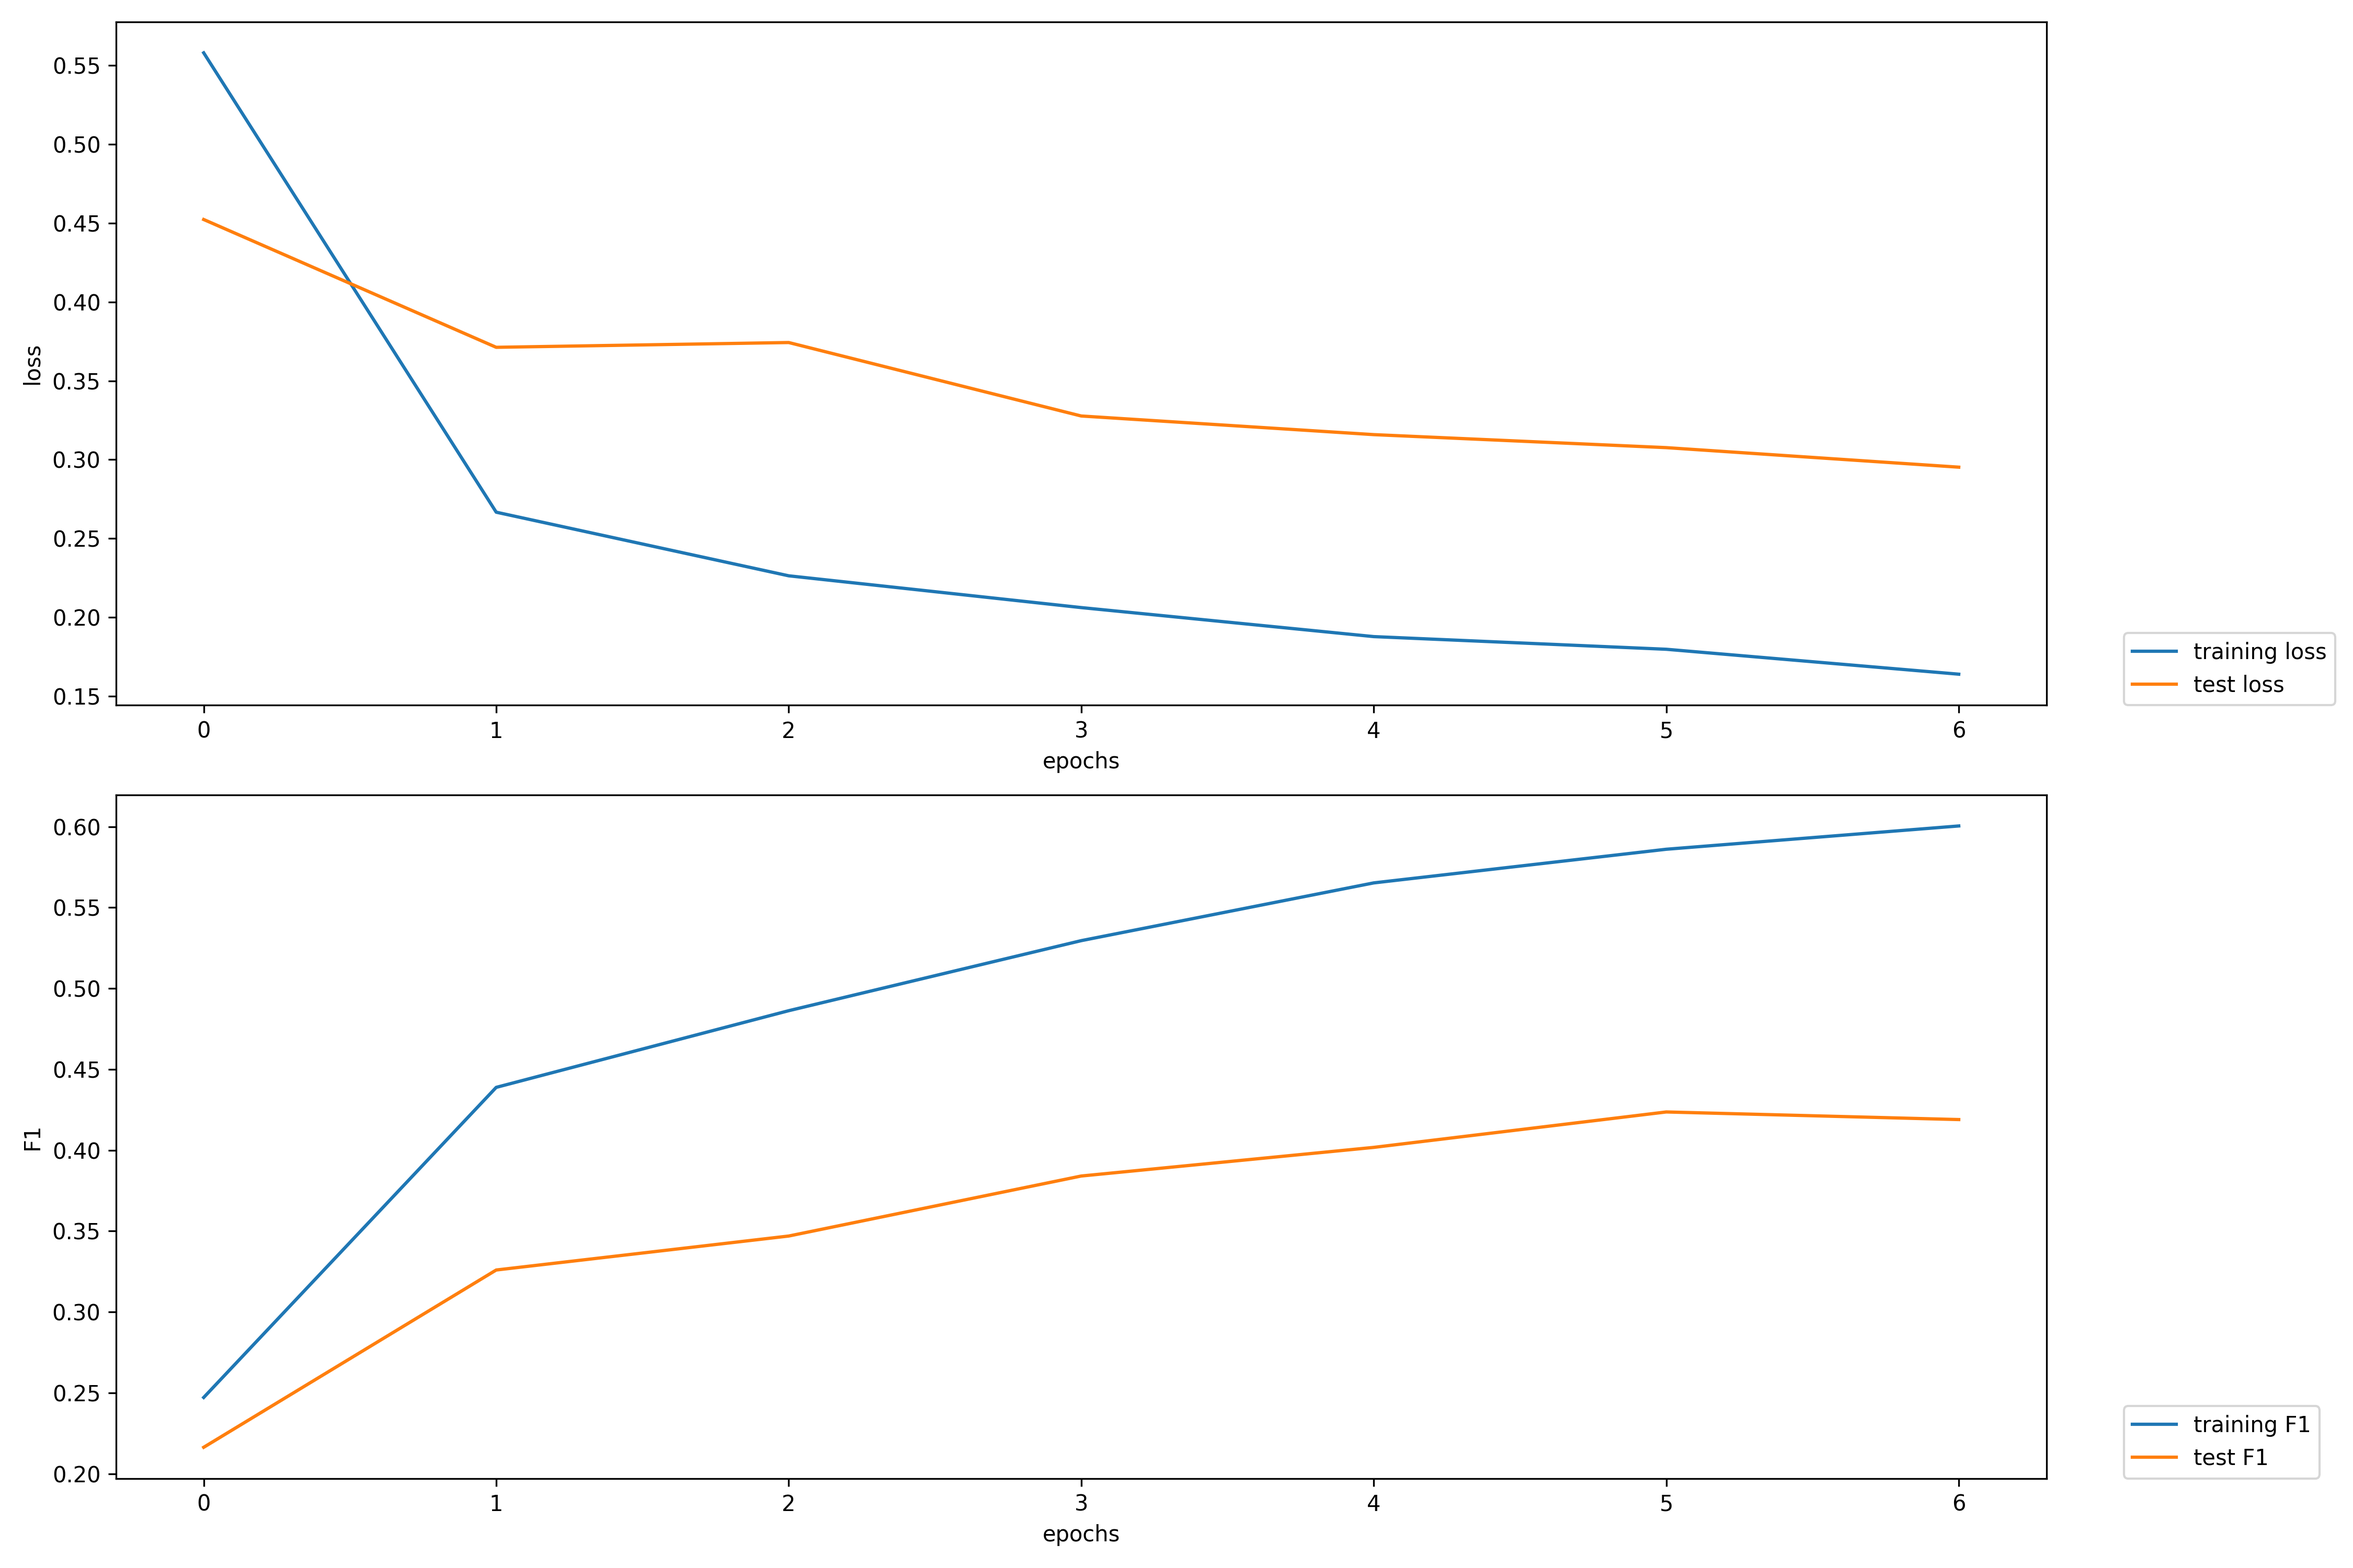
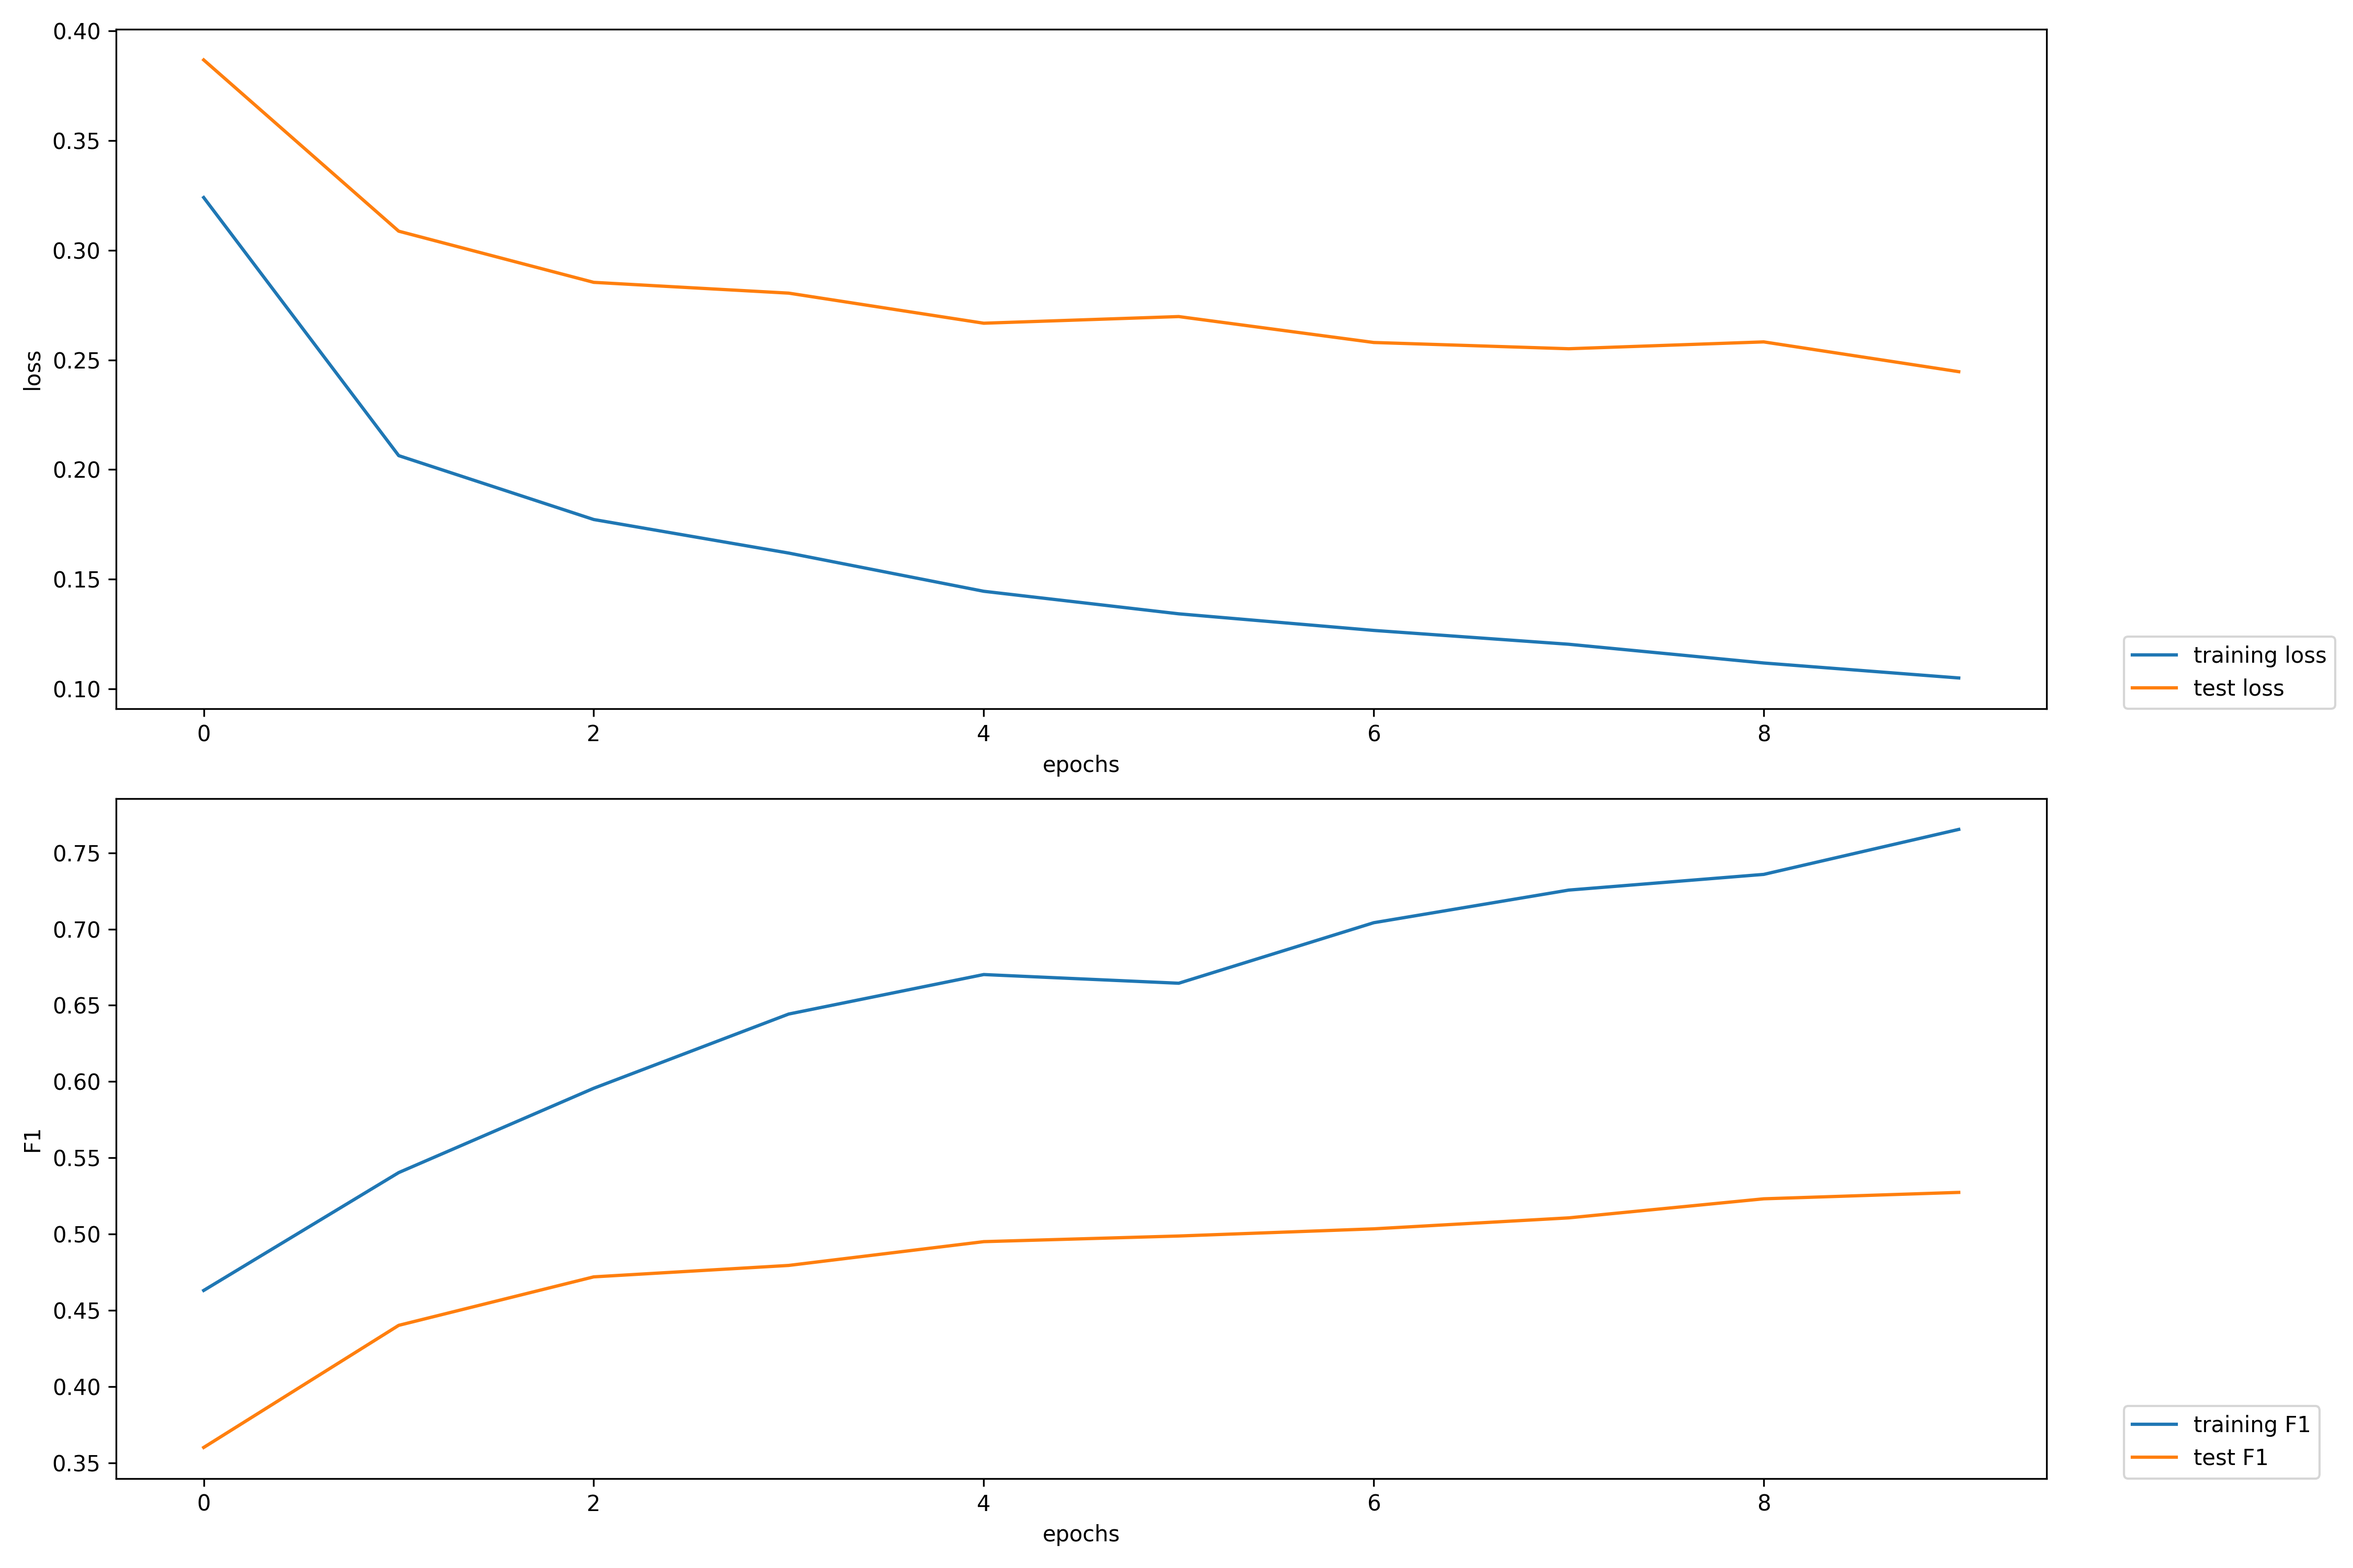
learning_line_update_complete_datset

diff --git a/README.md b/README.md
@@ -6,5 +6,5 @@ Here we use three different NN, NER, sentimen analysis and translator
 ```pip install -r requirements.txt && python run.py```
 - If not:<br>
 ```pip3 install -r requirements.txt && python3 run.py```<br>
-- The learning line or plot of the loss while training and testing is inside "exercise_2_folder/resources/", but here there is an example of the final plot:<br>
+- The learning line or plot of the loss while training and testing is inside "exercise_2_folder/resources/", but here there is an example of the final plot (using the complete dataset):<br>
 ![Alt text](training.png?raw=true "Learning line")
